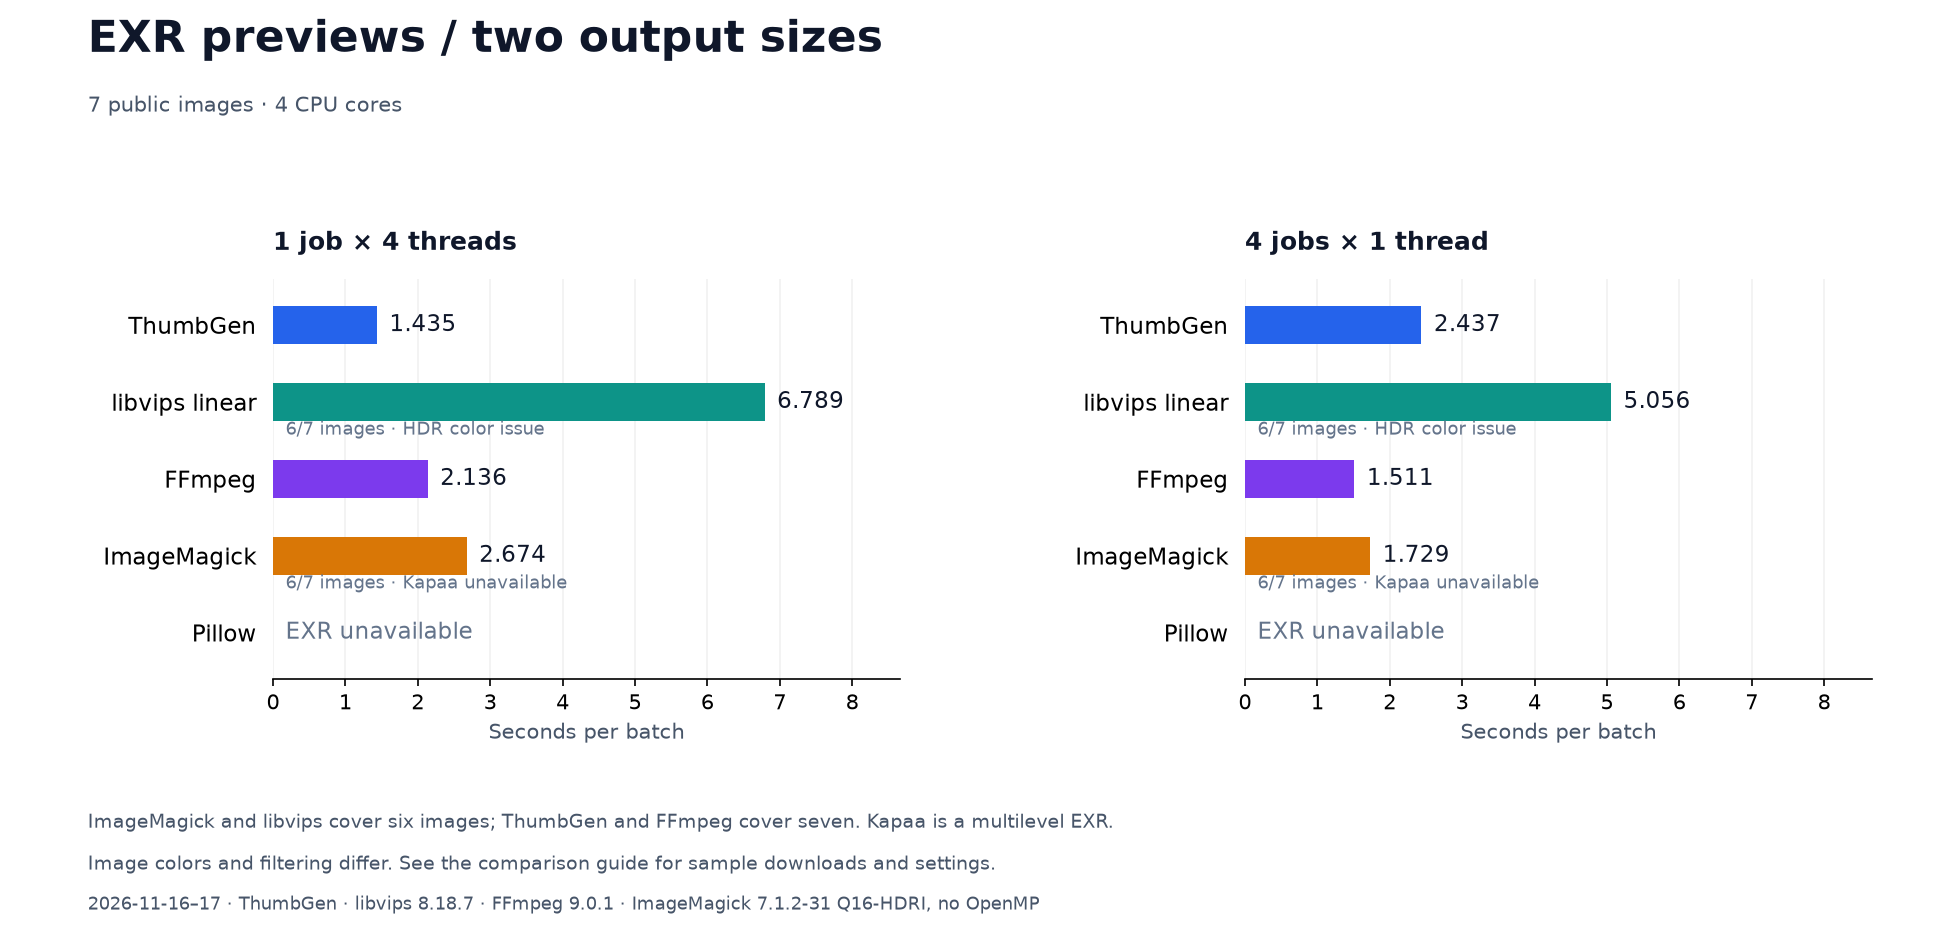
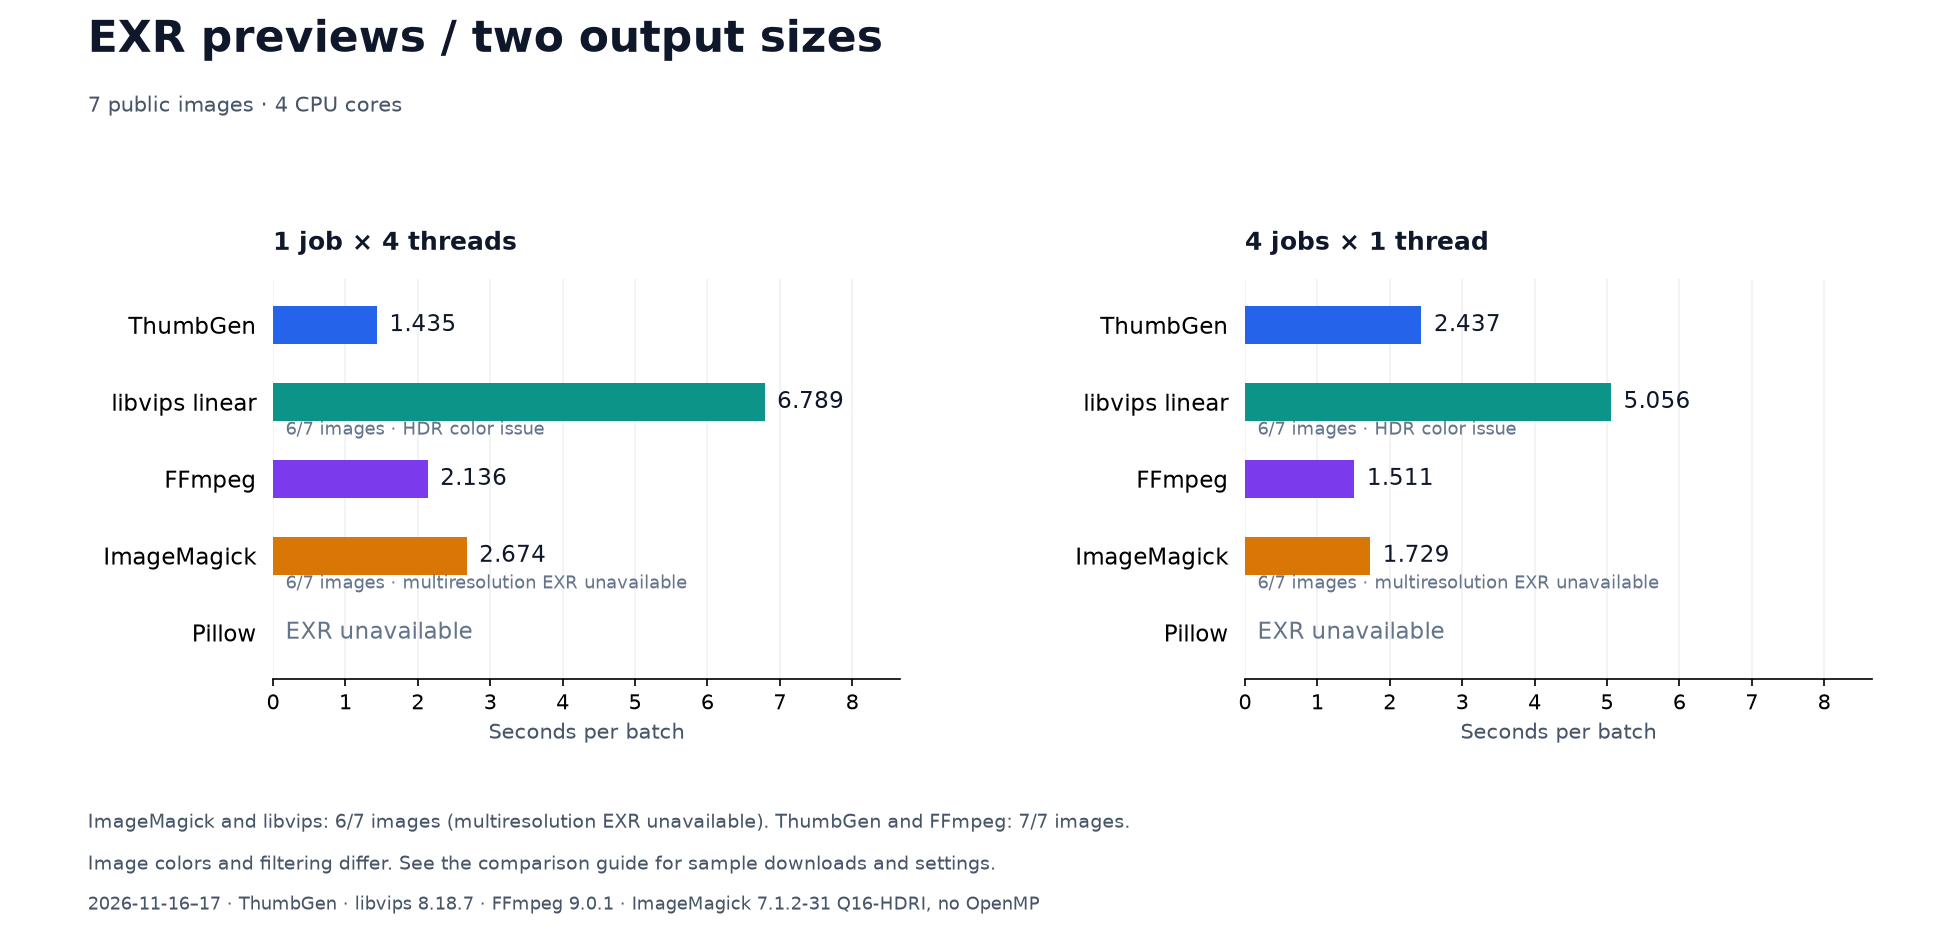
docs(bench): 用图片类型说明多分辨率EXR限制

Changed region(s): [[0.1538, 0.8731, 0.5846, 0.9043], [0.7077, 0.6237, 0.8615, 0.6548], [0.2154, 0.6237, 0.3385, 0.6548]]

diff --git a/scripts/public/render_benchmarks.py b/scripts/public/render_benchmarks.py
@@ -33,7 +33,7 @@ def panel(ax,rows,title,limit=None):
 def exr_rows(data,issue_data,config):
     rows=select(data,'exr-public7','png','dual',config,['thumbgen','ffmpeg'])
     im=select(data,'exr-public7-supporters3','png','dual',config,['magick'])[0]
-    rows.append({**im,'display_note':'6/7 images · Kapaa unavailable'})
+    rows.append({**im,'display_note':'6/7 images · multiresolution EXR unavailable'})
     matches=[r for r in issue_data if r['cohort']=='exr-public7-supporters3' and r['tool']=='vips' and r['config']==config and r['profile']=='dual']
     if len(matches)>1:raise ValueError('Duplicate libvips EXR timing')
     if matches:rows.append({**matches[0],'display_note':'6/7 images · HDR color issue'})
@@ -75,7 +75,7 @@ def coverage_chart(coverage,output):
             if cohort=='exr-public7' and tool=='magick':
                 ax.add_patch(Rectangle((x,y+6/7),1,1/7,facecolor=palette['read-failure'],edgecolor='none'))
                 ax.text(x+.5,y+.42,text,ha='center',va='center',fontsize=10,color='#0f172a')
-                ax.text(x+.5,y+.7,'Kapaa unavailable',ha='center',va='center',fontsize=8.5,color='#475569')
+                ax.text(x+.5,y+.7,'Multiresolution EXR unavailable',ha='center',va='center',fontsize=8.5,color='#475569')
             else:ax.text(x+.5,y+.5,text,ha='center',va='center',fontsize=10,color='#0f172a')
     ax.set_xlim(0,5);ax.set_ylim(4,0)
     ax.set_xticks([x+.5 for x in range(5)],[LABELS[t] for t in TOOLS],fontsize=11)
@@ -114,7 +114,7 @@ def main():
     for ax,rows,title in zip(axes,sets,['1 job × 4 threads','4 jobs × 1 thread']):exr_panel(ax,rows,title,limit)
     fig.suptitle('EXR previews / two output sizes',x=.045,ha='left',fontsize=21,fontweight='bold')
     fig.text(.045,.88,'7 public images · 4 CPU cores',fontsize=10,color='#475569')
-    fig.text(.045,.11,'ImageMagick and libvips cover six images; ThumbGen and FFmpeg cover seven. Kapaa is a multilevel EXR.',fontsize=9,color='#475569')
+    fig.text(.045,.11,'ImageMagick and libvips: 6/7 images (multiresolution EXR unavailable). ThumbGen and FFmpeg: 7/7 images.',fontsize=9,color='#475569')
     fig.text(.045,.065,'Image colors and filtering differ. See the comparison guide for sample downloads and settings.',fontsize=9,color='#475569')
     fig.text(.045,.022,'2026-11-16–17 · ThumbGen · libvips 8.18.7 · FFmpeg 9.0.1 · ImageMagick 7.1.2-31 Q16-HDRI, no OpenMP',fontsize=8.5,color='#475569')
     fig.subplots_adjust(left=.14,right=.96,top=.7,bottom=.27,wspace=.55)

diff --git a/docs/en/benchmarks.md b/docs/en/benchmarks.md
@@ -16,7 +16,7 @@ One size fits within 425×260; two sizes add 960×960. Aspect ratio is preserved
 
 Color processing, filters and compression differ between tools. Pillow resizes in 8-bit. FFmpeg JPEG uses q2 versus Q90 for the other tools; these are not equal-quality settings. The ImageMagick package has no OpenMP. The libvips EXR input uses a Magick loader with highlight color issues.
 
-ImageMagick and libvips read six still images; Kapaa is unreadable. The libvips previews have highlight color issues. Beachball outputs from libvips, FFmpeg and ImageMagick use a different canvas.
+ImageMagick and libvips read six still images; the multiresolution EXR is unreadable. The libvips previews have highlight color issues. Beachball outputs from libvips, FFmpeg and ImageMagick use a different canvas.
 
 ## Downloads
 

diff --git a/docs/benchmarks.md b/docs/benchmarks.md
@@ -16,7 +16,7 @@
 
 不同工具的色彩处理、滤波和压缩设置不同。Pillow 使用 8-bit 缩放；FFmpeg JPEG 使用 q2，其他工具为 Q90，两者并非相同画质。所用 ImageMagick 不含 OpenMP；libvips 的 EXR 读取经由 Magick loader，存在高光颜色问题。
 
-静态 EXR 中，ImageMagick 和 libvips 可读取六份图片，Kapaa 无法读取。libvips 的输出存在高光颜色异常；Beachball 序列在 libvips、FFmpeg 和 ImageMagick 中有输出，但画布尺寸不符。
+静态 EXR 中，ImageMagick 和 libvips 可读取六份图片，其中一份多分辨率 EXR 无法读取。libvips 的输出存在高光颜色异常；Beachball 序列在 libvips、FFmpeg 和 ImageMagick 中有输出，但画布尺寸不符。
 
 ## 数据下载
 

diff --git a/README.en.md b/README.en.md
@@ -37,7 +37,7 @@ Speed and format support for everyday images, EXRs and tiny-image batches. Value
 | 7 still EXRs / two PNGs | 4 × 1 | 2.437 | 5.056*† | 1.511 | 1.729* | Unsupported |
 | 8 Beachball EXR frames / two PNGs | 4 × 1 | 0.710 | 3.002† | 0.235† | 1.094† | Unsupported |
 
-<sub>* 6 of 7 images; Kapaa is unreadable. † Outputs have color or canvas issues.</sub>
+<sub>* 6 of 7 images; the multiresolution EXR is unreadable. † Outputs have color or canvas issues.</sub>
 
 ![EXR dual-output speed with different thread allocations](docs/assets/five-tool-exr.svg)
 

diff --git a/README.md b/README.md
@@ -37,7 +37,7 @@ PNG、JPEG、TIFF 等常见图片也能处理；支持 Alpha、方向、多 part
 | EXR 静态图 7 份 / 双 PNG | 4 × 1 | 2.437 | 5.056*† | 1.511 | 1.729* | 不支持 |
 | EXR Beachball 8 帧 / 双 PNG | 4 × 1 | 0.710 | 3.002† | 0.235† | 1.094† | 不支持 |
 
-<sub>* 6/7 份图片，Kapaa 无法读取。† 输出有颜色或画布尺寸问题。</sub>
+<sub>* 6/7 份图片，多分辨率 EXR 无法读取。† 输出有颜色或画布尺寸问题。</sub>
 
 ![EXR 双尺寸处理：不同线程分配的速度](docs/assets/five-tool-exr.svg)
 
